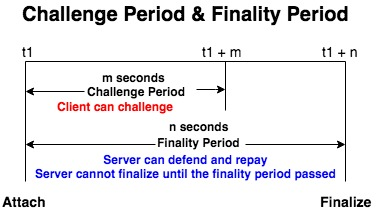
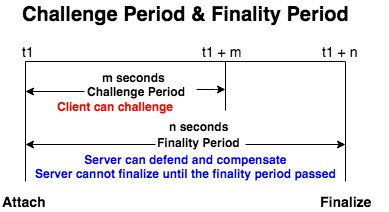
Update

Changed region(s): [[0.2159, 0.7075, 0.7404, 0.7925]]

diff --git a/white_paper.md b/white_paper.md
@@ -263,8 +263,8 @@ type : type of light transaction
 ### 存幣
 ![](images/deposit.jpg)
 
-#### _客戶端_ 向 _無窮鏈合約_ 申請存幣 (1~2)
-首先， _客戶端_ 向 _無窮鏈合約_ 查詢 `stageHeight` 並計算 `LSN` ，接著產生 `lightTransaction` 並對其簽章：
+#### 客戶端向無窮鏈合約申請存幣 (1~2)
+首先， 客戶端向無窮鏈合約查詢 `stageHeight` 並產生 `LSN` ，接著產生 `lightTransaction` 並對其簽章：
 
 ```
 Si   = getLatestStageHeight(C)
@@ -277,7 +277,7 @@ tc   = signLightTx(t)
 // sign the light trnsaction
 ```
 
-接下來， _客戶端_ 呼叫 _無窮鏈合約_ 之 `proposeDeposit` 方法以提出存幣申請，這個方法會在合約新增一筆 `Deposit Log`：
+接下來，客戶端呼叫無窮鏈合約之 `proposeDeposit` 方法以提出存幣申請，這個方法會在合約新增一筆 `Deposit Log`：
 
 ```
 Ld'  = *proposeDeposit(tc)
@@ -293,10 +293,10 @@ Ld   = [l1, l2, ...]
 Ld'  = push(Ld, l)
 ```
 
-存幣申請後， _無窮鏈合約_ 即廣播 `ProposeDeposit` 事件，其中包含 `lightTransaction`。
+存幣申請後，無窮鏈合約即廣播 `ProposeDeposit` 事件，其中包含 `lightTransaction`。
 
-#### _中心化服務_ 監聽申請存幣事件並產生存幣側帳送至 _節點_ (3~5)
-之後， _中心化服務_ 監聽 _無窮鏈合約_ 的 `ProposeDeposit` 事件並取得 `lightTransaction`，之後即驗證其客戶端簽章，若驗證成功則 _中心化服務_ 再對其產生簽章並送至 _節點_ ：
+#### 中心化服務監聽申請存幣事件並產生存幣側帳送至節點 (3~5)
+之後，中心化服務監聽無窮鏈合約的 `ProposeDeposit` 事件並取得 `lightTransaction`，之後即驗證其客戶端簽章，若驗證成功則中心化服務再對其產生簽章並送至節點：
 
 ```
 result = verifyLightTx(tc)
@@ -307,8 +307,8 @@ if (result == true) {
 }
 ```
 
-#### _節點_ 驗證側帳後產生收據並回傳 _中心化服務_ (6~8)
-_節點_ 取得 `lightTransaction` 後即驗證其客戶端簽章及中心化服務簽章，若驗證成功則產生 `receipt`，更新 `Balance Tree` 及儲存 `receipt` 於節點資料庫，最後將 `receipt` 回傳 _中心化服務_ ：
+#### 節點驗證側帳後產生收據並回傳中心化服務 (6~8)
+節點取得 `lightTransaction` 後即驗證其客戶端簽章及中心化服務簽章，若驗證成功則產生 `receipt`，更新 `Balance Tree` 及儲存 `receipt` 於節點資料庫，最後將 `receipt` 回傳中心化服務 ：
 
 ```
 result = verifyLightTx(ts)
@@ -321,8 +321,8 @@ if (result == true) {
 }
 ```
 
-#### _中心化服務_ 取得收據並向 _無窮鏈合約_ 執行存幣 (9~13)
-_中心化服務_ 取得 `receipt` 後即對其簽章，接著呼叫合約之 `deposit` 方法以執行存幣：
+#### 中心化服務取得收據並向無窮鏈合約執行存幣 (9~13)
+中心化服務取得 `receipt` 後即對其簽章，接著呼叫合約之 `deposit` 方法以執行存幣：
 
 ```
 rs = signReceipt(r)
@@ -338,10 +338,10 @@ l'   = [Si, LSN, Ad, v, timeout, Fd']
 Fd'  = true
 ```
 
-存幣執行後， _無窮鏈合約_ 即廣播 `Deposit` 事件，其中包含 `receipt`。
+存幣執行後，無窮鏈合約即廣播 `Deposit` 事件，其中包含 `receipt`。
 
-#### _客戶端_ 監聽存幣事件並取得收據 (14~15)
-最後， _客戶端_ 監聽 _無窮鏈合約_ `Deposit` 事件以取得 `receipt` 並儲存：
+#### 客戶端監聽存幣事件並取得收據 (14~15)
+最後，客戶端監聽無窮鏈合約 `Deposit` 事件以取得 `receipt` 並儲存：
 
 ```
 saveReceipt(rs)
@@ -350,8 +350,8 @@ saveReceipt(rs)
 ### 提幣 Withdraw
 ![](images/withdraw.jpg)
 
-#### _客戶端_ 向 _無窮鏈合約_ 申請提幣 (1~2)
-首先， _客戶端_ 向 _無窮鏈合約_ 查詢 `stageHeight` 並計算 `LSN` ，接著產生 `lightTransaction` 並對其簽章：
+#### 客戶端向無窮鏈合約申請提幣 (1~2)
+首先，客戶端向無窮鏈合約查詢 `stageHeight` 並計算 `LSN` ，接著產生 `lightTransaction` 並對其簽章：
 
 ```
 Si   = getLatestStageHeight(C)
@@ -360,7 +360,7 @@ t    = makeLightTx(Si, LSN, Ad, v, 'withdraw')
 tc   = signLightTx(t)
 ```
 
-接下來， _客戶端_ 呼叫 _無窮鏈合約_ 之 `proposeWithdraw` 方法以提出提幣申請，這個方法會在合約新增一筆 `Withdraw Log`：
+接下來，客戶端呼叫無窮鏈合約之 `proposeWithdraw` 方法以提出提幣申請，這個方法會在合約新增一筆 `Withdraw Log`：
 
 ```
 Lw'  = *proposeWithdraw(tc)
@@ -375,10 +375,10 @@ l    = [Si, LSN, Ad, v, timeout, Fw]
 Fw   = false
 ```
 
-提幣申請後， _無窮鏈合約_ 即廣播 `ProposeWithdraw` 事件，其中包含 `lightTransaction`。
+提幣申請後，無窮鏈合約即廣播 `ProposeWithdraw` 事件，其中包含 `lightTransaction`。
 
-#### _中心化服務_ 監聽申請提幣事件並產生提幣側帳送至 _節點_ (3~5)
-之後， _中心化服務_ 監聽 _無窮鏈合約_ 的 `ProposeWithdraw` 事件並取得 `lightTransaction`，之後即驗證其客戶端簽章，若驗證成功則 _中心化服務_ 再對其產生簽章並送至 _節點_ ：
+#### 中心化服務監聽申請提幣事件並產生提幣側帳送至節點 (3~5)
+之後，中心化服務監聽無窮鏈合約的 `ProposeWithdraw` 事件並取得 `lightTransaction`，之後即驗證其客戶端簽章，若驗證成功則中心化服務再對其產生簽章並送至節點：
 
 ```
 result = verifyLightTx(tc)
@@ -389,8 +389,8 @@ if (result == true) {
 }
 ```
 
-#### _節點_ 驗證側帳後產生收據並回傳 _中心化服務_ (6~8)
-_節點_ 取得 `lightTransaction` 後即驗證其客戶端簽章及中心化服務簽章，若驗證成功則產生 `receipt`，更新 `Balance Tree` 及儲存 `receipt` 於節點資料庫，最後將 `receipt` 回傳 _中心化服務_ ：
+#### 節點驗證側帳後產生收據並回傳中心化服務 (6~8)
+節點取得 `lightTransaction` 後即驗證其客戶端簽章及中心化服務簽章，若驗證成功則產生 `receipt`，更新 `Balance Tree` 及儲存 `receipt` 於節點資料庫，最後將 `receipt` 回傳中心化服務：
 
 ```
 result = verifyLightTx(ts)
@@ -403,28 +403,28 @@ if (result == true) {
 }
 ```
 
-#### _中心化服務_ 取得收據並向 _無窮鏈合約_ 提交收據 (9~13)
-_中心化服務_ 取得 `receipt` 後即對其簽章，接著呼叫合約之 `submitReceipt` 方法以提交收據：
+#### 中心化服務取得收據並向無窮鏈合約提交收據 (9~13)
+中心化服務取得 `receipt` 後即對其簽章，接著呼叫合約之 `submitReceipt` 方法以提交收據：
 
 ```
 rs = signReceipt(r)
 *submitReceipt(rs)
 ```
 
-提交收據後， _無窮鏈合約_ 即廣播 `SubmitReceipt` 事件，其中包含 `receipt`。
+提交收據後，無窮鏈合約即廣播 `SubmitReceipt` 事件，其中包含 `receipt`。
 
-#### _客戶端_ 監聽收據提交事件並取得收據 (14~15)
-最後， _客戶端_ 監聽 _無窮鏈合約_ `SubmitReceipt` 事件以取得 `receipt` 並儲存：
+#### 客戶端監聽收據提交事件並取得收據 (14~15)
+最後，客戶端監聽無窮鏈合約 `SubmitReceipt` 事件以取得 `receipt` 並儲存：
 
 ```
 saveReceipt(rs)
 ```
 
-#### _中心化服務_ 新增側鏈區段並達成最終性 (16)
+#### 中心化服務新增側鏈區段並達成最終性 (16)
 提幣必須經過挑戰期，需經過稽核 / 抗議 / 自清 / 付罰金等流程以達成最終性，其詳細過程會於下一個章節說明。
 
-#### _客戶端_ 向 _無窮鏈合約_ 執行提幣 (17~18)
-最後， _客戶端_ 於最終性達成後即可呼叫 _無窮鏈合約_ `withdraw` 方法以執行提幣：
+#### 客戶端向無窮鏈合約執行提幣 (17~18)
+最後，客戶端於最終性達成後即可呼叫無窮鏈合約 `withdraw` 方法以執行提幣：
 
 ```
 Lw' = *withdraw(rs)
@@ -441,8 +441,8 @@ Fw'  = true
 
 ### 即時提幣
 ![](images/instantWithdraw.jpg)
-#### _客戶端_ 產生即時提幣側帳並送至 _中心化服務_ (1~2)
-首先， _客戶端_ 向 _無窮鏈合約_ 查詢 `stageHeight` 並計算 `LSN` ，接著產生 `lightTransaction` 並對其簽章：
+#### 客戶端產生即時提幣側帳並送至中心化服務 (1~2)
+首先，客戶端向無窮鏈合約查詢 `stageHeight` 並計算 `LSN` ，接著產生 `lightTransaction` 並對其簽章：
 
 ```
 Si   = getLatestStageHeight(C)
@@ -452,8 +452,8 @@ tc   = signLightTx(t)
 r    = sendLightTx(tc, ServerURL)
 ```
 
-#### _中心化服務_ 驗證側帳並送至 _節點_ (3~5)
-_中心化服務_ 取得 `lightTransaction` 後即驗證其客戶端簽章，若驗證成功則對其產生簽章並送至 _節點_ ：
+#### 中心化服務驗證側帳並送至節點 (3~5)
+中心化服務取得 `lightTransaction` 後即驗證其客戶端簽章，若驗證成功則對其產生簽章並送至節點：
 
 ```
 result = verifyLightTx(tc)
@@ -464,8 +464,8 @@ if (result == true) {
 }
 ```
 
-#### _節點_ 驗證側帳後產生收據並回傳 _中心化服務_ (6~7)
-_節點_ 取得 `lightTransaction` 後即驗證其客戶端簽章及中心化服務簽章，若驗證成功則產生 `receipt`，更新 `Balance Tree` 及儲存 `receipt` 於節點資料庫，最後將 `receipt` 回傳 _中心化服務_ ：
+#### 節點驗證側帳後產生收據並回傳中心化服務 (6~7)
+節點取得 `lightTransaction` 後即驗證其客戶端簽章及中心化服務簽章，若驗證成功則產生 `receipt`，更新 `Balance Tree` 及儲存 `receipt` 於節點資料庫，最後將 `receipt` 回傳中心化服務：
 
 ```
 result = verifyLightTx(ts)
@@ -478,23 +478,23 @@ if (result == true) {
 }
 ```
 
-#### _中心化服務_ 取得收據並送至 _客戶端_ (8~9)
-_中心化服務_ 取得 `receipt` 後即對其產生簽章並回傳 _客戶端_ ：
+#### 中心化服務取得收據並送至客戶端 (8~9)
+中心化服務取得 `receipt` 後即對其產生簽章並回傳客戶端 ：
 
 ```
 rs = signReceipt(r)
 return rs
 ```
 
-#### _客戶端_ 取得收據 (10~12)
-接著， _客戶端_ 取得收據後即儲存：
+#### 客戶端取得收據 (10~12)
+接著， 客戶端取得收據後即儲存：
 
 ```
 saveReceipt(rs)
 ```
 
-#### _客戶端_ 執行即時提幣 (14~15)
-最後， _客戶端_ 呼叫 `instantWithdraw` 方法以執行即時提幣：
+#### 客戶端執行即時提幣 (14~15)
+最後，客戶端呼叫 `instantWithdraw` 方法以執行即時提幣：
 
 ```
 Lw' = *instantWithdraw(rs)
@@ -512,8 +512,8 @@ Fw   = true
 ### 轉帳 Remittance
 ![](images/remittance.jpg)
 
-#### _客戶端_ 產生轉帳側帳並送至 _中心化服務_ (1~2)
-首先， _客戶端_ 向 _無窮鏈合約_ 查詢 `stageHeight` 並計算 `LSN` ，接著產生 `lightTransaction` 並對其簽章：
+#### 客戶端產生轉帳側帳並送至中心化服務 (1~2)
+首先，客戶端向無窮鏈合約查詢 `stageHeight` 並計算 `LSN` ，接著產生 `lightTransaction` 並對其簽章：
 
 ```
 Si   = getLatestStageHeight(C)
@@ -523,8 +523,8 @@ tc   = signLightTx(t)
 r    = sendLightTx(tc, ServerURL)
 ```
 
-#### _中心化服務_ 驗證側帳並送至 _節點_ (3~5)
-_中心化服務_ 取得 `lightTransaction` 後即驗證其客戶端簽章，若驗證成功則對其產生簽章並送至 _節點_ ：
+#### 中心化服務驗證側帳並送至節點 (3~5)
+中心化服務取得 `lightTransaction` 後即驗證其客戶端簽章，若驗證成功則對其產生簽章並送至節點：
 
 ```
 result = verifyLightTx(tc)
@@ -535,8 +535,8 @@ if (result == true) {
 }
 ```
 
-#### _節點_ 驗證側帳後產生收據並回傳 _中心化服務_ (6~7)
-_節點_ 取得 `lightTransaction` 後即驗證其客戶端簽章及中心化服務簽章，若驗證成功則產生 `receipt`，更新 `Balance Tree` 及儲存 `receipt` 於節點資料庫，最後將 `receipt` 回傳 _中心化服務_ ：
+#### 節點驗證側帳後產生收據並回傳中心化服務 (6~7)
+節點取得 `lightTransaction` 後即驗證其客戶端簽章及中心化服務簽章，若驗證成功則產生 `receipt`，更新 `Balance Tree` 及儲存 `receipt` 於節點資料庫，最後將 `receipt` 回傳中心化服務：
 
 ```
 result = verifyLightTx(ts)
@@ -549,46 +549,59 @@ if (result == true) {
 }
 ```
 
-#### _中心化服務_ 取得收據並送至 _客戶端_ (8~9)
-_中心化服務_ 取得 `receipt` 後即對其產生簽章並回傳 _客戶端_ ：
+#### 中心化服務取得收據並送至客戶端 (8~9)
+中心化服務取得 `receipt` 後即對其產生簽章並回傳客戶端：
 
 ```
 rs = signReceipt(r)
 return rs
 ```
 
-#### _客戶端_ 取得收據 (10~12)
-最後， _客戶端_ 取得收據後即儲存：
+#### 客戶端取得收據 (10~12)
+最後，客戶端取得收據後即儲存：
 
 ```
 saveReceipt(rs)
 ```
 
-### 稽核與抗議 Auditing and Challenge
+### 分散式稽核 Distributed Auditing
 ![](images/challenge.jpg)
+
+以上為分散式稽核**客戶端提出抗議**且**中心化服務自清失敗**的時序圖。其等同於下列流程：
+
 ![](images/flow.jpg)
 
-#### _中心化服務_ 新增側鏈區段 (1~4)
-`commitStage`
-密碼學證據
-receipt tree rootHash
-balance tree rootHash
-完整性證明
-tree building
-indexed merkle tree
+其中包括 `attach` `audit` `challenge` `defend` `compensate` `finalize` 等行為。
 
-#### _客戶端_ 監聽抗議事件新增區段事件，收到事件後可進行稽核 (5~15)
+呼叫 `attach` 後無窮鏈合約將廣播 `Attach` 事件，這同時也揭示了**客戶端-中心化服務-稽核員賽局**的開始。這些角色之間能夠互相制衡以維持側鏈之正確性：客戶端可以呼叫 `challenge` 方法向合約提出抗議，而中心化服務端也能呼叫 `defend` 方法解除抗議。最後，所有的 `Stage` 都必須透過 `finalize` 達成最終性才能再新增下一個 `Stage`。
+
+以下將針對不同行為進行說明。
+
+#### 中心化服務新增側鏈區段 (1~4)
+中心化服務呼叫 `attach` 方法
+節點計算 `rootHash`
+節點呼叫合約 `attach` 方法
+
+```
+res = attach()
+```
+```
+Rh = buildStage(Rs)
+*attach(Rh)
+```
+
+#### 客戶端進行稽核 (5~15)
 ![](images/audit.jpg)
 
-#### _客戶端_ 於稽核失敗時可提出抗議 (5~15)
+#### 客戶端提出抗議 (5~15)
 ![](images/period.jpg)
 
-#### _中心化服務_ 監聽抗議事件，收到抗議後可進行自清 (16)
+#### 中心化服務進行自清 (16)
 ![](images/defend.jpg)
 
-#### _中心化服務_ 於自清失敗後須支付罰款 (17)
+#### 中心化服務支付賠款 (17)
 
-#### _中心化服務_ 於所有抗議皆被處理後可達成側鏈之最終性 (18)
+#### 中心化服務達成最終性 (18)
 
 ## 安全性分析
 
